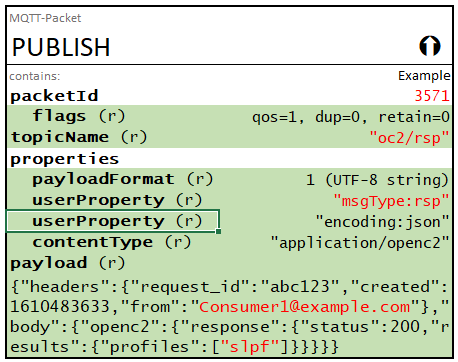
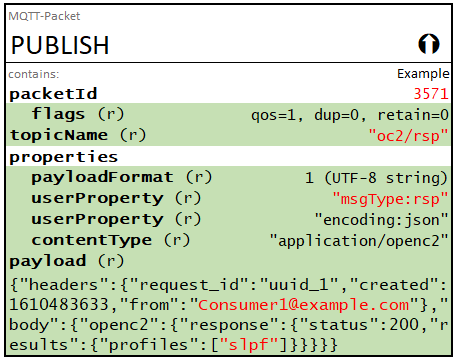
use "uuid_1" in example 3

Changed region(s): [[0.0, 0.0, 1.0, 0.9778], [0.5821, 0.4583, 0.9803, 0.7028], [0.7965, 0.3361, 0.8271, 0.3667]]

diff --git a/transf-mqtt-v1.0.md b/transf-mqtt-v1.0.md
@@ -1085,7 +1085,7 @@ nessages in the control packet payloads use condensed formatting
 ``` json
 {
   "headers": {
-    "request_id": "abc123",
+    "request_id": "uuid_1",
     "created": 1610483630,
     "from": "Producer1@example.com"
   },
@@ -1115,7 +1115,7 @@ _Consumer 1:_
 ``` json
 {
   "headers": {
-    "request_id": "abc123",
+    "request_id": "uuid_1",
     "created": 1610483633,
     "from": "Consumer1@example.com"
   },
@@ -1142,7 +1142,7 @@ _Consumer 2:_
 ``` json
 {
   "headers": {
-    "request_id": "abc123",
+    "request_id": "uuid_1",
     "created": 1610483632,
     "from": "Consumer2@example.com"
   },
@@ -1170,7 +1170,7 @@ _Consumer 3:_
 ``` json
 {
   "headers": {
-    "request_id": "abc123",
+    "request_id": "uuid_1",
     "created": 1610483632,
     "from": "Consumer3@example.com"
   },
